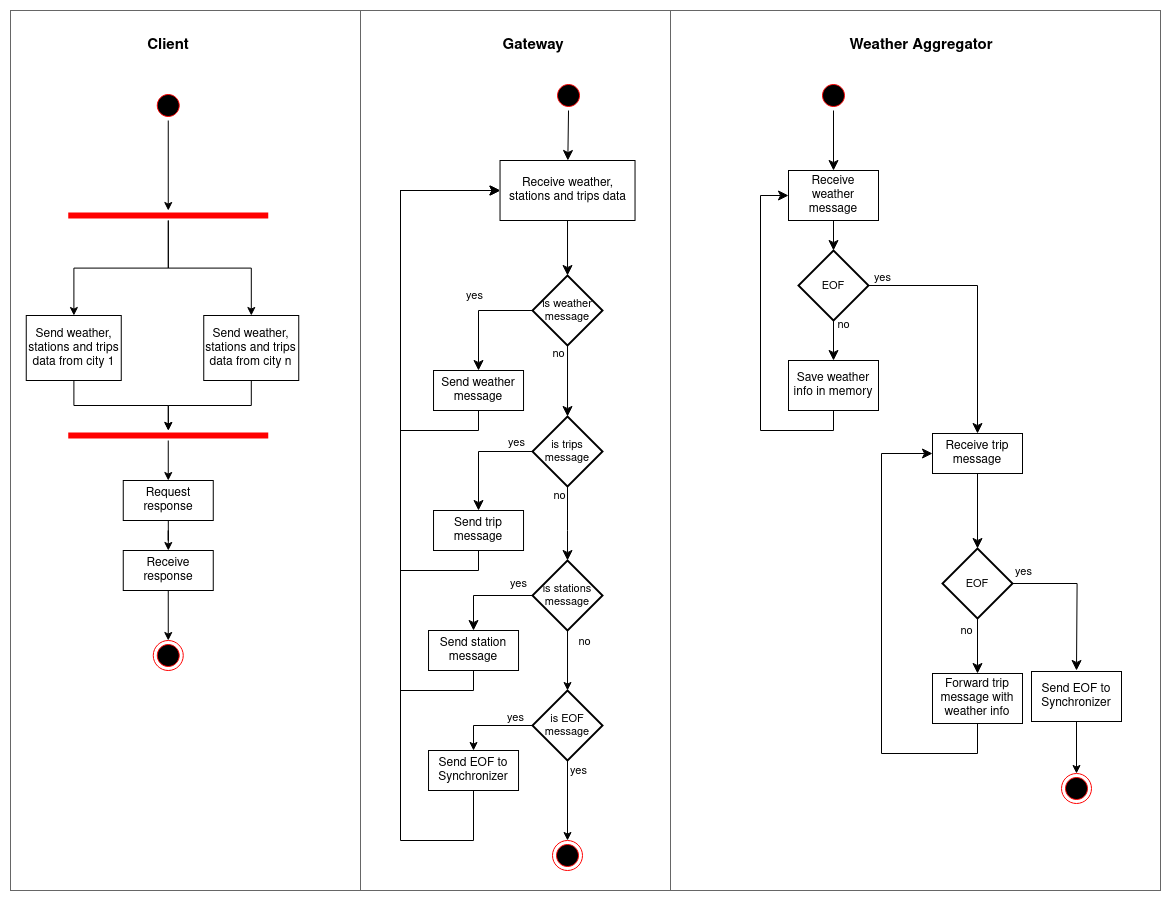
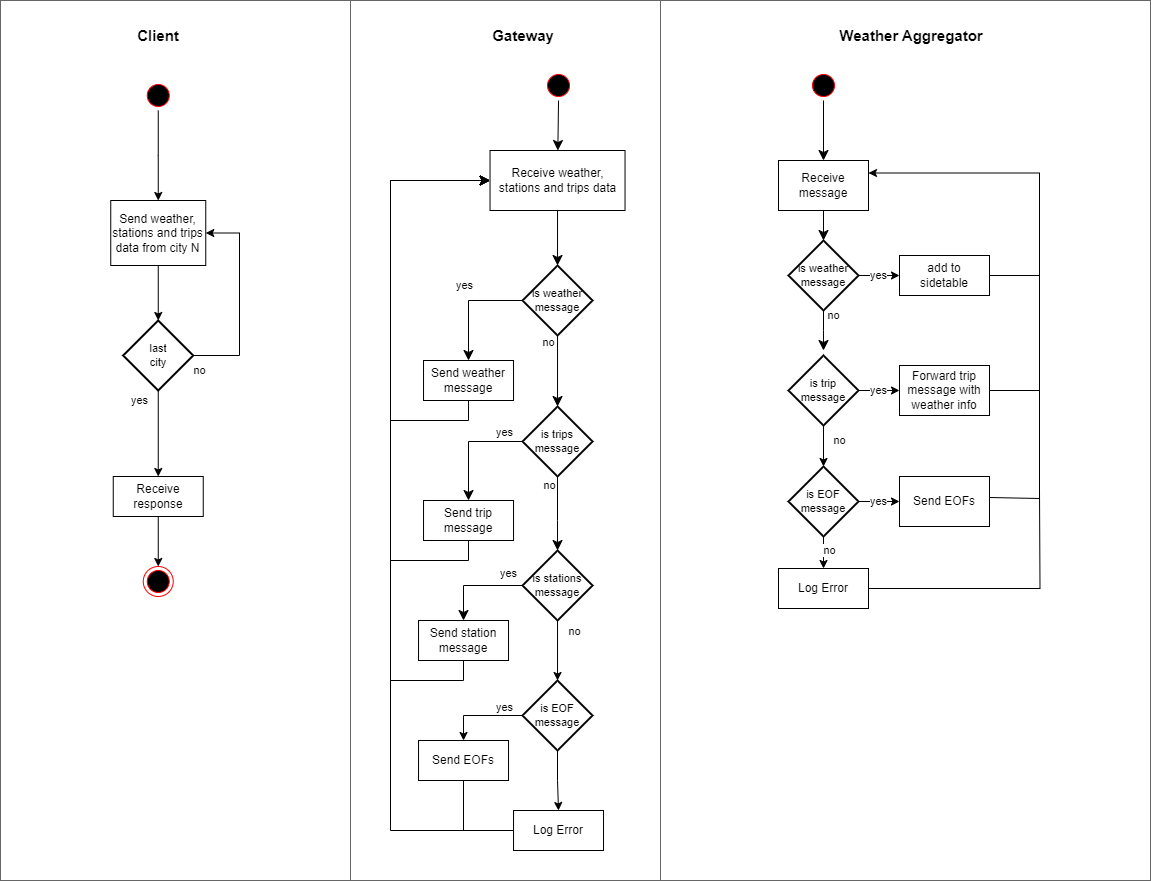
docs: activity

diff --git a/README.md b/README.md
@@ -200,16 +200,17 @@ Diagrama de actividad de la comunicación entre el cliente, el Gateway y el prim
 
 En el diagrama anterior se puede observar el orden en que el cliente envía la información al Gateway, y
 el orden en que la esperan los aggregators.
-Por un lado, el cliente envía la información del clima, estaciones y viajes.
+Por un lado, el cliente envía la información del clima, estaciones y luego viajes.
 El `Weather Aggregator` necesita la información climática para armar su side table, por lo que no puede
 procesar la información de los viajes hasta que no reciba todos los datos del clima.
 Lo mismo sucede con el `Station Aggregator`, que necesita la información de las estaciones.
 
-El cliente envía la información de cada ciudad en un thread separado.
+El cliente envía la información de cada ciudad de manera secuencial.
+Si quisiera enviar la información en paralelo, deberia correr otra instancia del cliente.
 
 ![activity_diagram_2](docs/activity_2.png)
 
-Diagrama de actividad de la comunicación del `Station Aggregator` con el `Prec Filter` y `Result Provider`.
+Diagrama de actividad de la comunicación del `Station Aggregator` con el `Prec Filter`.
 
 En el diagrama se visualiza cómo se comunica la información, desde el momento en que se termina de agregar
 la información de las estaciones y el clima, hasta que se envía al primer conjunto de filtros y calculators.
@@ -217,8 +218,6 @@ la información de las estaciones y el clima, hasta que se envía al primer conj
 Se puede ver que el `Prec Filter` puede realizar su trabajo utilizando
 exclusivamente la información del paquete que acaban de recibir, por lo que el escalado de éstas entidades
 es muy sencillo. Lo mismo ocurre con `Year Filter`, `Trip Count Provider`, `Distance Calculator` y `Dist Mean Provider`.
-
-El `Result Provider` se encarga de comunicarle al cliente la información de los reportes.
 
 #### Diagrama de secuencia
 
